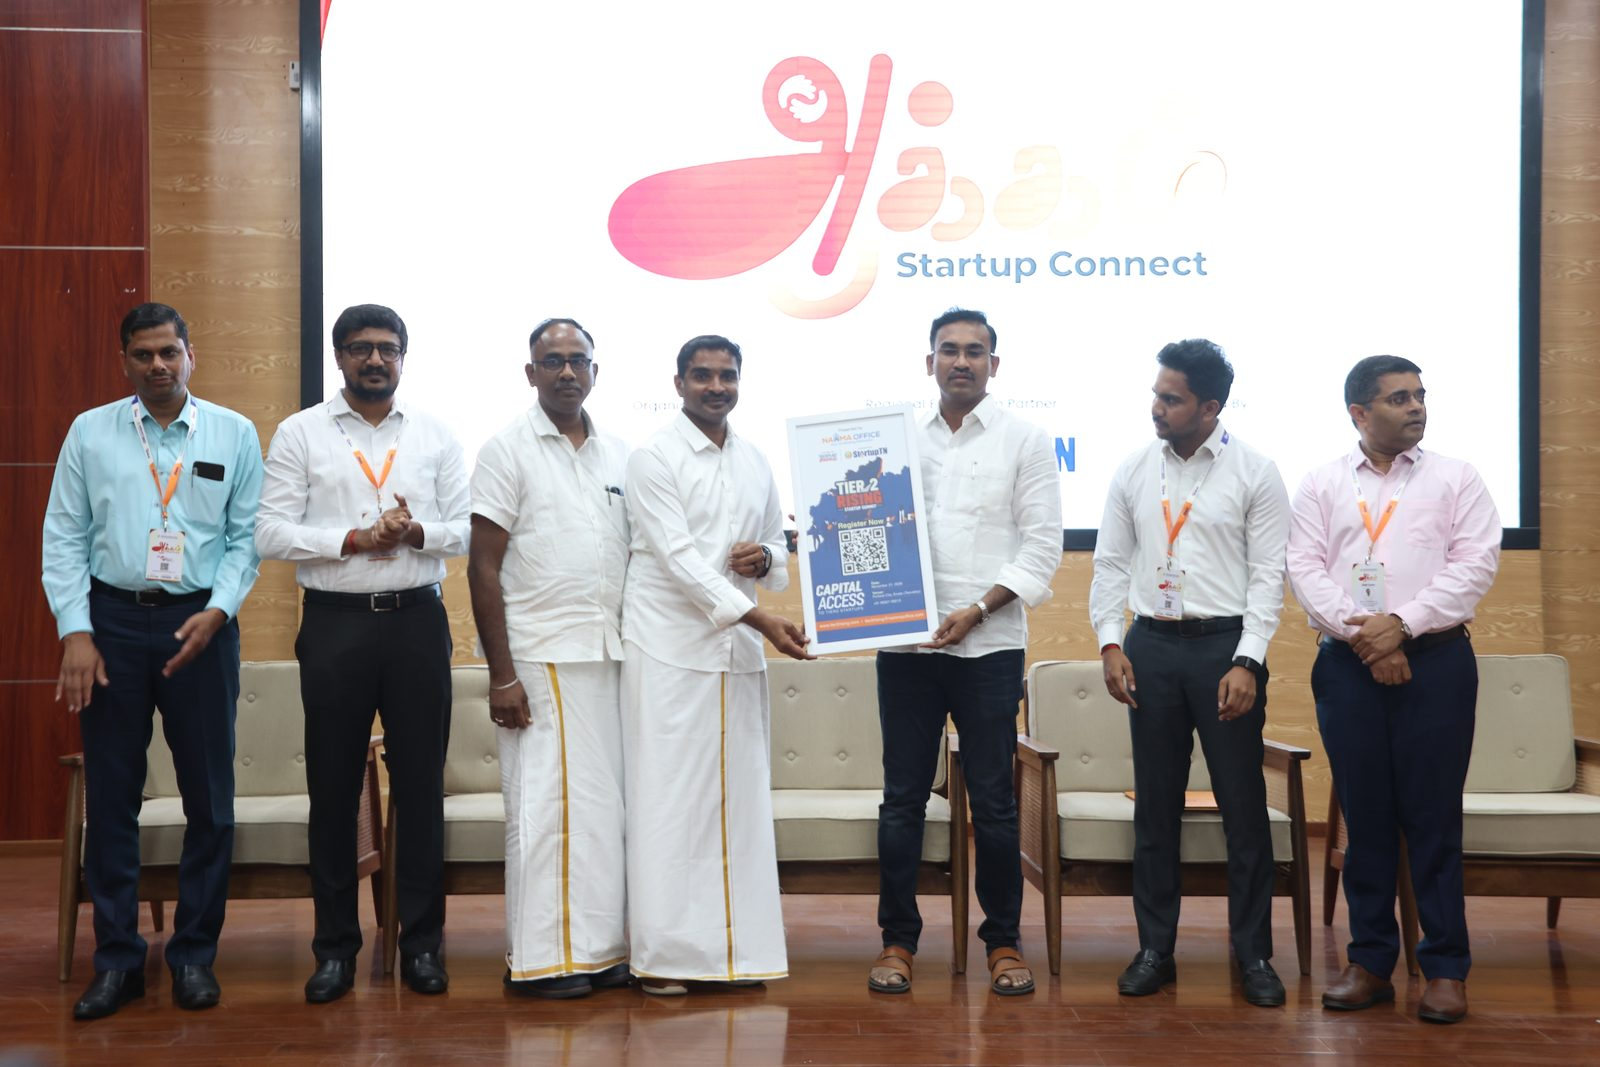
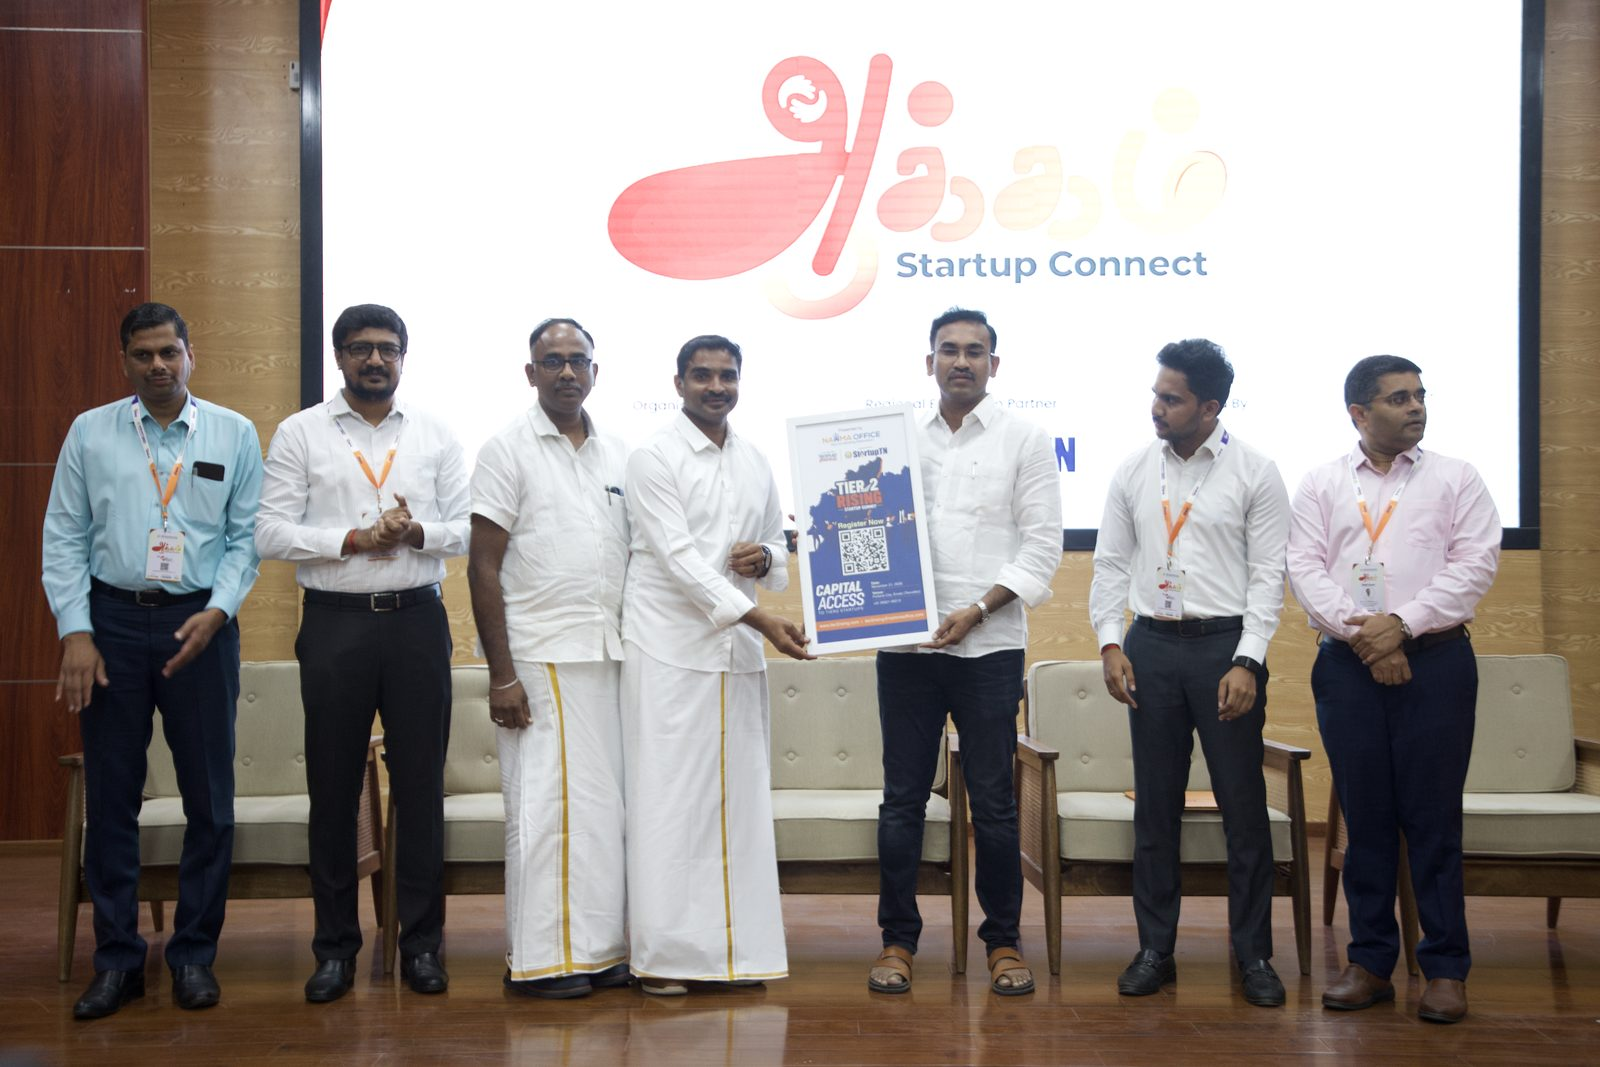
launch photo from raw, mobile hero

diff --git a/src/content/home.ts b/src/content/home.ts
@@ -95,7 +95,7 @@ export const launch = {
    * Two widths, srcset'd. next.config.mjs turns the image optimizer OFF (we serve plain
    * <img> from a small Node box), so nothing generates responsive sources for us — the
    * alternative is shipping a 1600px file to a phone showing it 340px wide.
-   * scripts/assets/launch-aakam-source.jpg is the original; see scripts/launch-photo.py.
+   * Both are decoded straight from the camera raw (2X1A7561.CR3) by scripts/launch-photo.py.
    */
   photo: {
     src: '/happens/launch-aakam-1600.jpg',

diff --git a/scripts/launch-photo.py b/scripts/launch-photo.py
@@ -2,41 +2,80 @@
 """
 Web sizes for the launch photograph shown in the hero.
 
-Run from the repo root:  python3 scripts/launch-photo.py   (needs Pillow)
+    python3 scripts/launch-photo.py [path/to/2X1A7561.CR3]
 
-The camera original is 5472x3648 and 4.4MB — fine as an archive, impossible as the first
-image on the homepage. This writes the two widths the hero's srcset offers:
+WHY THE RAW IS CONVERTED AT ALL. No browser renders Canon raw, and the CR3 is 20MB for one
+photograph — raw is sensor data that has to be demosaiced before anything can display it.
+A conversion is not a choice; the only question is how many times the pixels get compressed
+on the way.
 
-    launch-aakam-900.jpg    900x600    for phones and the stacked layout at 1x
-    launch-aakam-1600.jpg   1600x1067  for the side-by-side layout and 2x screens
+SO THIS DECODES THE CR3 AND RESIZES IN ONE PASS. Given the CR3 (as an argument, or found at
+one of RAW_CANDIDATES), it is decoded to a lossless TIFF with macOS's own Image I/O:
 
-NO CROP. The frame is already 3:2 and the composition needs its full width — seven people
-in a row, and cropping either end drops someone out of the photograph.
+    sips -s format tiff <raw> --out <tmp>
 
-Quality 82 progressive, which lands both files in the same 75-175KB band as the existing
-photographs in public/happens/. next.config.mjs has the Next image optimizer switched OFF
-(`images: { unoptimized: true }` — we serve plain <img> from a small Node box), so whatever
-this script writes is exactly what the browser downloads. There is no pipeline behind it.
+and every shipped width is resized from those pixels, so each output is compressed exactly
+once. The earlier version of this script resized a committed JPEG master instead, which
+compressed twice; measured, that cost 0.7/255 mean difference and nothing in file size, but
+there is no reason to pay even that.
+
+FALLBACK. Without the CR3 it resizes scripts/assets/launch-aakam-source.jpg, a full-size
+quality-92 master decoded from that same raw, so the repo can rebuild these files on its
+own. Prefer the CR3 when it is to hand; keep it out of git, where 20MB of binary does not
+belong.
+
+A NEUTRAL CONVERSION. Image I/O does not apply Canon's picture style, so the result is
+flatter and slightly cooler than the camera-processed JPEG the client first supplied. That
+is the raw's own rendering and is deliberately left alone — grading someone's photograph is
+their call, not this script's.
+
+NO CROP. The frame is already 3:2 and the composition needs its full width: seven people in
+a row, and cropping either end drops someone out of the photograph.
 """
 
 import os
+import subprocess
+import sys
+import tempfile
 
 from PIL import Image
 
-SRC = 'scripts/assets/launch-aakam-source.jpg'
+MASTER = 'scripts/assets/launch-aakam-source.jpg'
+RAW_CANDIDATES = ('scripts/assets/2X1A7561.CR3', os.path.expanduser('~/Desktop/2X1A7561.CR3'))
 OUT = 'public/happens/launch-aakam-{w}.jpg'
 WIDTHS = (900, 1600)
 QUALITY = 82
 
 
+def find_raw() -> str | None:
+    if len(sys.argv) > 1:
+        if not os.path.exists(sys.argv[1]):
+            sys.exit(f'no such file: {sys.argv[1]}')
+        return sys.argv[1]
+    return next((p for p in RAW_CANDIDATES if os.path.exists(p)), None)
+
+
+def open_source(raw: str | None, tmpdir: str) -> tuple[Image.Image, str]:
+    """The CR3 decoded losslessly if we have it, else the committed JPEG master."""
+    if raw is None:
+        return Image.open(MASTER), f'{MASTER} (master — CR3 not found, see the docstring)'
+    tiff = os.path.join(tmpdir, 'raw.tiff')
+    subprocess.run(['sips', '-s', 'format', 'tiff', raw, '--out', tiff],
+                   check=True, stdout=subprocess.DEVNULL, stderr=subprocess.DEVNULL)
+    return Image.open(tiff), f'{raw} (raw, decoded losslessly)'
+
+
 def main() -> None:
-    src = Image.open(SRC)
-    print(f'source {src.size[0]}x{src.size[1]}  {os.path.getsize(SRC) // 1024}KB')
-    for w in WIDTHS:
-        out = src.resize((w, round(w * src.height / src.width)), Image.LANCZOS)
-        path = OUT.format(w=w)
-        out.save(path, 'JPEG', quality=QUALITY, optimize=True, progressive=True)
-        print(f'wrote {path}  {out.size[0]}x{out.size[1]}  {os.path.getsize(path) // 1024}KB')
+    raw = find_raw()
+    with tempfile.TemporaryDirectory() as tmpdir:
+        src, label = open_source(raw, tmpdir)
+        src = src.convert('RGB')
+        print(f'source {src.size[0]}x{src.size[1]}  {label}')
+        for w in WIDTHS:
+            out = src.resize((w, round(w * src.height / src.width)), Image.LANCZOS)
+            path = OUT.format(w=w)
+            out.save(path, 'JPEG', quality=QUALITY, optimize=True, progressive=True)
+            print(f'wrote {path}  {out.size[0]}x{out.size[1]}  {os.path.getsize(path) // 1024}KB')
 
 
 if __name__ == '__main__':
